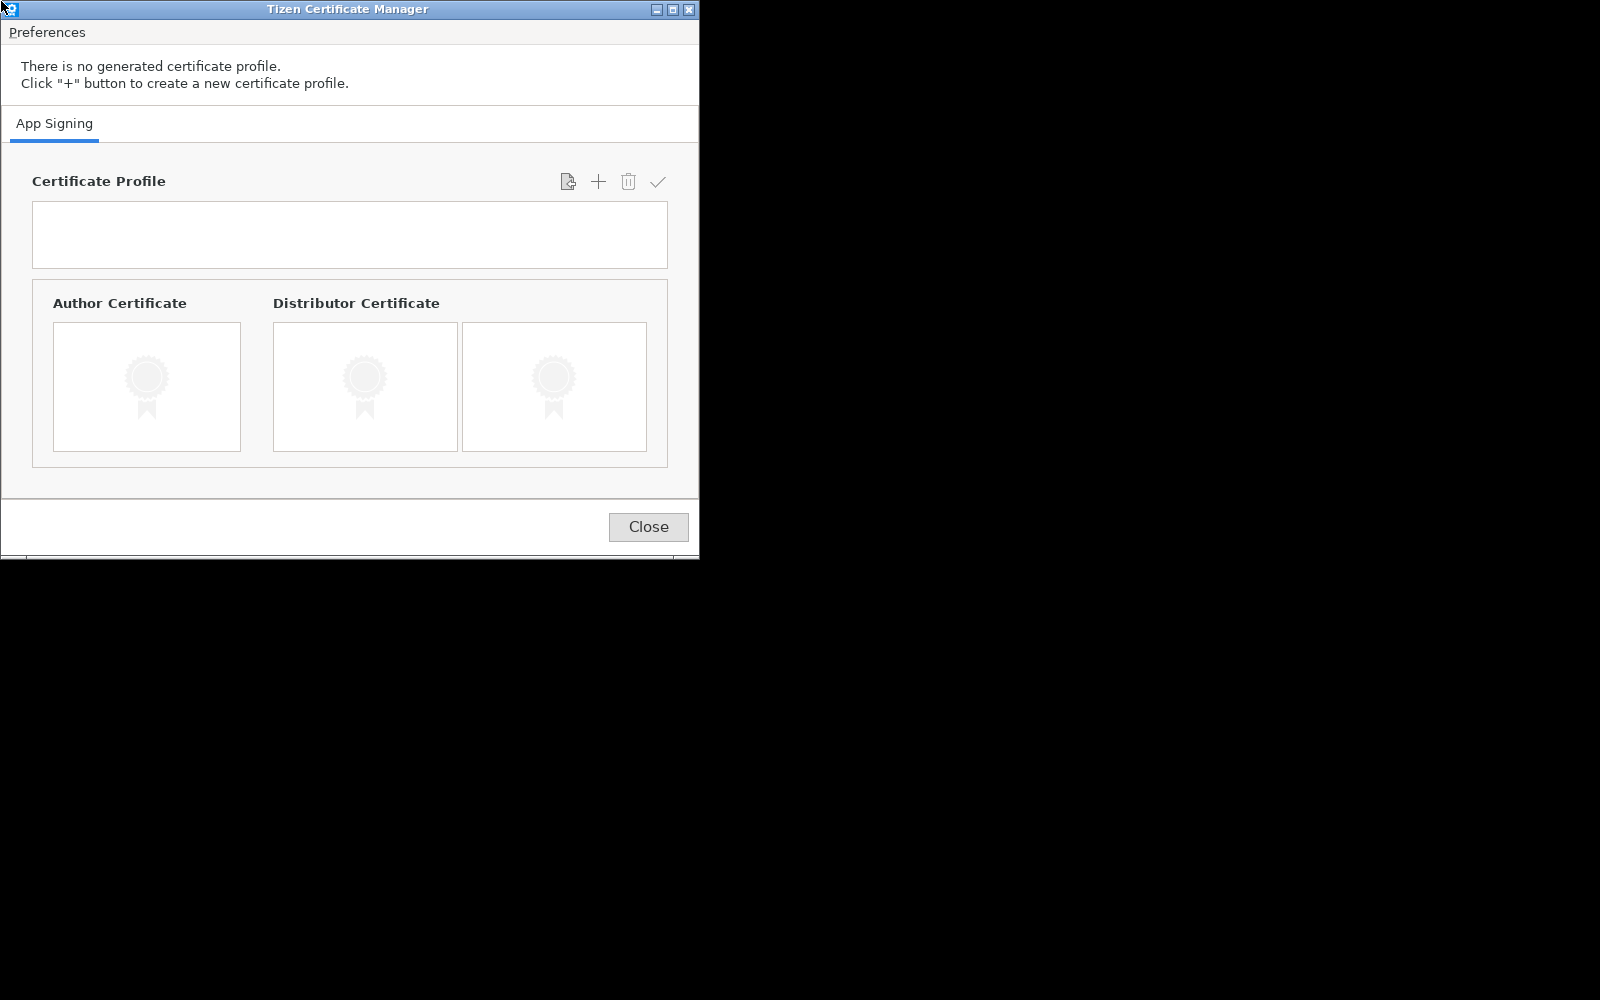
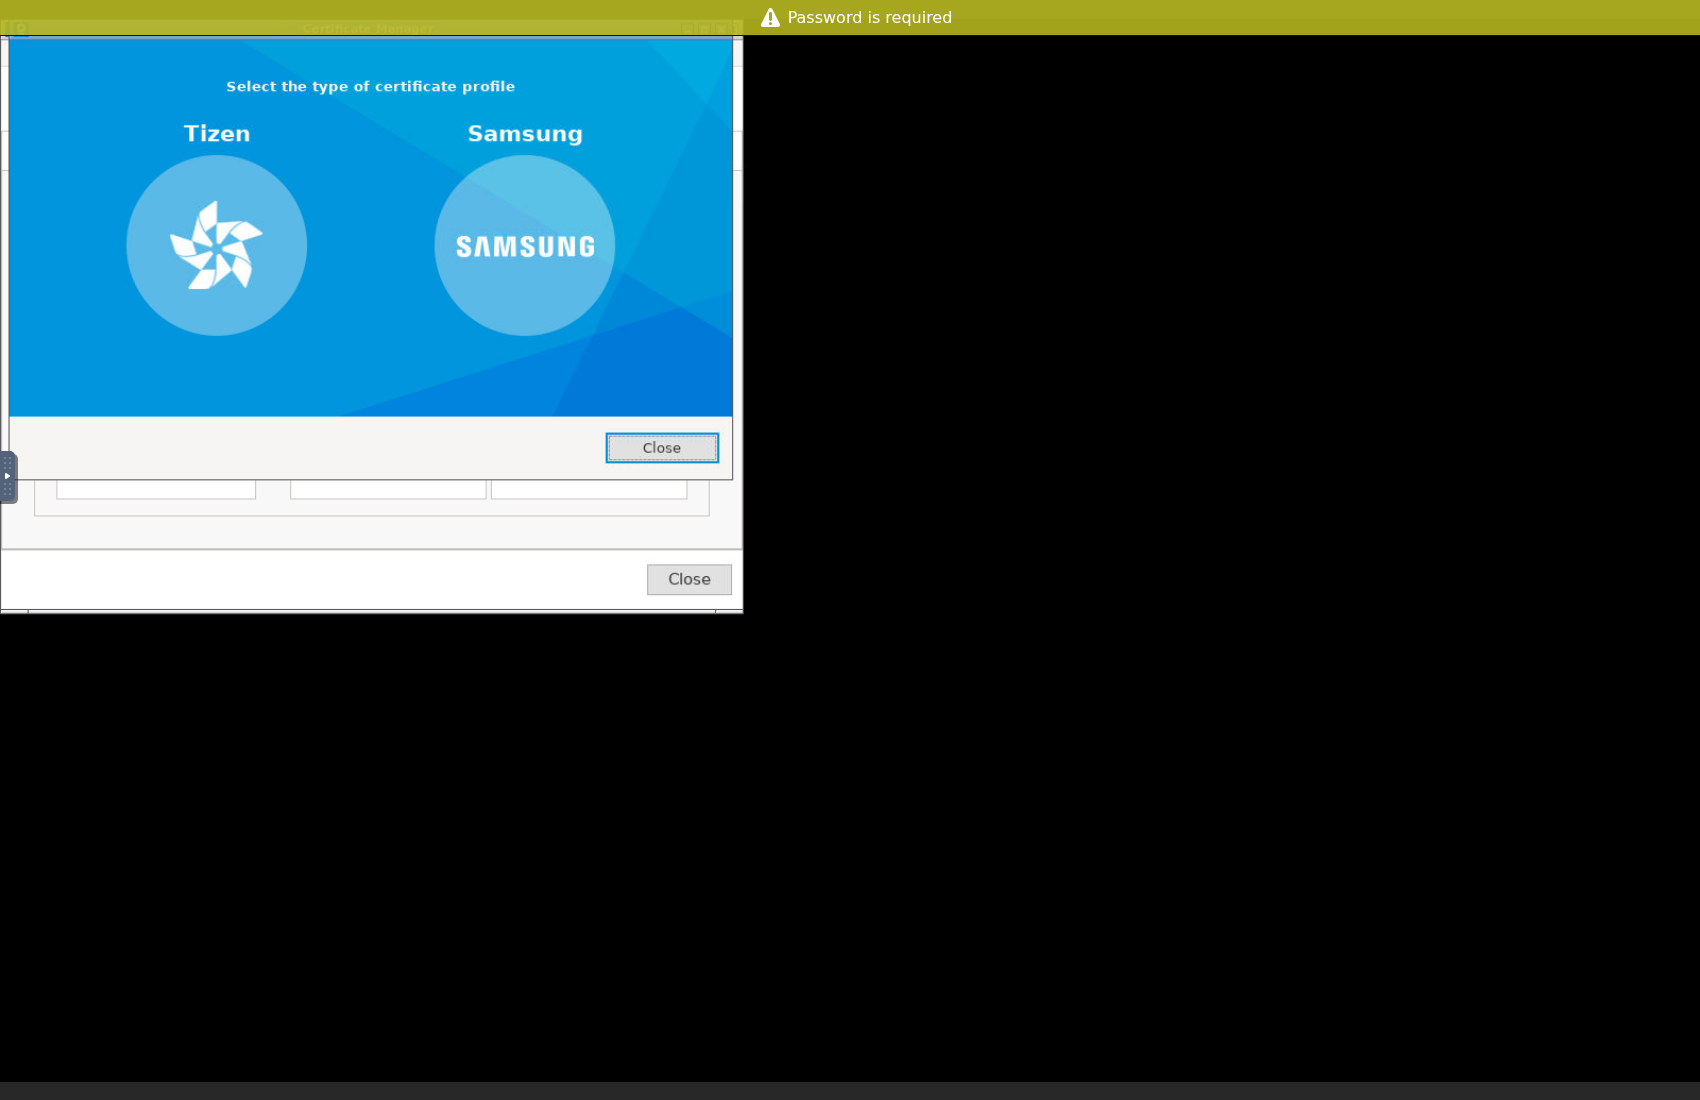
Mode web cert-manager : vérifié dans un navigateur via noVNC (clic sur + jusqu'au choix Samsung), §5 corrigé, note docker inspect

Changed region(s): [[0.0, 0.0, 1.0, 0.465], [0.0, 0.961, 1.0, 1.0], [0.0, 0.496, 0.4375, 0.558]]

diff --git a/docs/m1-procedure.md b/docs/m1-procedure.md
@@ -43,10 +43,10 @@ Consigner dans `docs/tv-status.md` (sans IP ni DUID) : plateforme Tizen, résult
 ### 5. Certificats Samsung (auteur + distributeur)
 Il faut le **DUID** de la TV (sortie de `sdb capability`, champ `duid`), un compte Samsung, et le certificat se crée avec l'outil Samsung. Deux voies. **Pour une TV Samsung, l'auteur et le distributeur doivent venir du même profil Samsung** (voie Certificate Manager) : un auteur Tizen ne va pas avec un distributeur Samsung, et la TV refuserait la signature.
 - **Voie CLI** (auteur Tizen seulement, insuffisante pour la TV) : `scripts/tizen/cert-author.sh` (lance `tizen certificate -a cimaise -f author` avec `AUTHOR_PASSWORD` lu dans `.local/tizen.env` : le mot de passe n'apparaît jamais sur la ligne de commande de l'hôte, dans l'historique du shell ni dans les logs ; dans le conteneur, `tizen` le reçoit via `-p`) génère un certificat **auteur Tizen** copié dans `.local/certs/author.p12`. **Cette voie ne donne qu'un auteur qui ne va pas avec un distributeur Samsung** : elle ne suffit pas pour la TV (la CLI ne sait pas demander le distributeur, qui exige ton compte Samsung). Utiliser la voie Certificate Manager ; si un `author.p12` de la CLI est déjà là, `cert-manager.sh` le sauvegarde en `author.cli.p12` et met l'auteur Samsung à sa place.
-- **Voie Certificate Manager** (`scripts/tizen/cert-manager.sh`) : le Certificate Manager et l'extension Samsung sont déjà dans l'image (reconstruire avec `scripts/tizen/build-image.sh` si l'image date d'avant : elle ajoute GTK3). Le script affiche la fenêtre via X11, ou XWayland sous Wayland (`DISPLAY` doit être défini ; sur NixOS, `programs.xwayland.enable = true`). Pas à pas, **tu fais tout toi-même** (l'agent ne saisit jamais ton mot de passe Samsung) :
+- **Voie Certificate Manager** (`scripts/tizen/cert-manager.sh`) : le Certificate Manager et l'extension Samsung sont déjà dans l'image (reconstruire avec `scripts/tizen/build-image.sh` si l'image date d'avant : elle ajoute GTK3). Le script affiche la fenêtre via X11, ou XWayland sous Wayland (en mode hôte seulement, `DISPLAY` doit être défini ; sur NixOS, `programs.xwayland.enable = true` ; sans `DISPLAY`, le mode web est le défaut). Pas à pas, **tu fais tout toi-même** (l'agent ne saisit jamais ton mot de passe Samsung) :
   - **Où s'affiche la fenêtre** (même pas à pas ensuite) :
     - **Session graphique de l'hôte** (`DISPLAY` défini) : `scripts/tizen/cert-manager.sh`, la fenêtre s'ouvre sur ton écran.
-    - **Mode web** (VM sans écran, pilotée en SSH ; **défaut quand `DISPLAY` est absent**, ou `--web`) : `scripts/tizen/cert-manager.sh [--port 6080]`. Le script lance dans le conteneur Xvfb (1600×1000) + openbox + VNC + noVNC et affiche **une URL par IP de la VM** (LAN, Tailscale), du type `http://<ip-vm>:6080/vnc.html?autoconnect=1&resize=scale`, puis **un mot de passe de 8 caractères, tiré au hasard à chaque lancement et affiché une seule fois** (rien n'est écrit dans git ni dans un log ; à relancer pour en obtenir un autre). **Tu fais** : ouvrir l'URL dans un navigateur du LAN ou de Tailscale (le port, 6080 par défaut, doit être joignable depuis ton poste), saisir le mot de passe. **Tu verras** : un fond noir uni avec la fenêtre « Certificate Manager ». Le navigateur de connexion au compte Samsung s'ouvre dans ce même bureau. Fermer la fenêtre termine tout ; les certificats atterrissent dans `.local/certs/` comme d'habitude.
+    - **Mode web** (VM sans écran, pilotée en SSH ; **défaut quand `DISPLAY` est absent**, ou `--web`) : `scripts/tizen/cert-manager.sh [--port 6080]`. Le script lance dans le conteneur Xvfb (1600×1000) + openbox + VNC + noVNC et affiche **une URL par IP de la VM** (LAN, Tailscale), du type `http://<ip-vm>:6080/vnc.html?autoconnect=1&resize=scale`, puis **un mot de passe de 8 caractères, tiré au hasard à chaque lancement et affiché une seule fois** (rien n'est écrit dans git ni dans un log ; à relancer pour en obtenir un autre). **Tu fais** : ouvrir l'URL dans un navigateur du LAN ou de Tailscale (le port, 6080 par défaut, doit être joignable depuis ton poste), saisir le mot de passe. **Tu verras** : un fond noir uni avec la fenêtre « Certificate Manager ». Le navigateur de connexion au compte Samsung devrait s'ouvrir dans ce même bureau (non testé). Fermer la fenêtre termine tout ; les certificats atterrissent dans `.local/certs/` comme d'habitude.
   1. `scripts/tizen/cert-manager.sh`. **Tu verras** : une fenêtre « Certificate Manager » (onglet App Signing, « There is no generated certificate profile »). Le script reste bloqué jusqu'à la fermeture de la fenêtre.
   2. Cliquer sur **+** (Certificate Profile). **Tu verras** : « Select the type of certificate profile », deux choix, Tizen et **Samsung**. Choisir **Samsung**.
   3. Étape 1 « Device Type » : **TV** → Next.
@@ -55,7 +55,7 @@ Il faut le **DUID** de la TV (sortie de `sdb capability`, champ `duid`), un comp
   6. Étape 4 « Distributor Certificate » (même dossier par défaut) : se connecter au **compte Samsung** (dans la fenêtre de connexion qui s'ouvre, c'est toi qui saisis tes identifiants), choisir privilège **Public**, saisir le **DUID** de la TV (`sdb-tv.sh capability`), mot de passe = `DISTRIBUTOR_PASSWORD` → Finish.
   7. Fermer la fenêtre. Le script prend la paire `author.p12` + `distributor.p12` d'un même profil de `.local/SamsungCertificate/` et la copie en `.local/certs/` ; elle prime sur un `author.p12` existant (sauvegardé en `author.cli.p12` s'il diffère). Il ne prend jamais l'auteur du keystore quand un distributeur Samsung est présent, et signale ce qui manque. Si les fichiers portent un autre nom, les renommer à la main en `author.p12` et `distributor.p12`.
   - Si la connexion Samsung n'affiche pas de page (navigateur intégré absent) ou si la fenêtre ne s'ouvre pas, dis-moi le message exact.
-  - Mode web vérifié par l'agent le 2026-10-29, sur le code du commit fdfa66e, avec `env -u DISPLAY scripts/tizen/cert-manager.sh --port 6081` (Xvfb 1600×1000 + openbox + x11vnc + noVNC dans le conteneur) : l'URL et un mot de passe de 8 caractères s'affichent ; via websockify (chemin noVNC), un mauvais mot de passe est refusé et le bon accepté ; la fenêtre « Tizen Certificate Manager » apparaît (capture : `.board/captures/certificate-manager-novnc.png`) ; aucun `workspace/` n'est créé dans le dépôt. Vérifié avec un client RFB scripté, **pas dans un navigateur** (celui de l'agent n'atteignait pas la VM), et **pas encore vu par Stéphane**. **Non testé** : clics dans la fenêtre via noVNC, choix Samsung / étape « Device Type », connexion Samsung, création des certificats, affichage sur ton écran Wayland réel.
+  - Mode web vérifié par l'agent le 2026-10-29 avec `env -u DISPLAY scripts/tizen/cert-manager.sh --port 6082` (Xvfb 1600×1000 + openbox + x11vnc + noVNC dans le conteneur) : l'URL et un mot de passe de 8 caractères s'affichent ; **dans un Chromium headless lancé sur la VM** (Playwright), la page `vnc.html?autoconnect=1&resize=scale` demande le mot de passe, le champ + « Send Password » ouvrent la session, la fenêtre « Certificate Manager » s'affiche, et un clic sur **+** ouvre « Select the type of certificate profile » (Tizen / Samsung), sans aller plus loin (capture du navigateur : `.board/captures/certificate-manager-novnc.png`). Détail observé : avec `autoconnect=1`, noVNC affiche un bandeau « Password is required » qui reste affiché une fois connecté. Aucun `workspace/` n'est créé dans le dépôt. **Pas encore vu par Stéphane** dans son propre navigateur. **Non testé** : choix Samsung et suite de l'assistant, connexion Samsung (jamais faite par l'agent), création des certificats, affichage sur ton écran Wayland réel.
 Dans `.local/tizen.env` : renseigner `AUTHOR_PASSWORD`, `DISTRIBUTOR_PASSWORD`. **Garder l'auteur Samsung pour toujours** : le changer casse les mises à jour sur place.
 
 > Cette étape n'est pas testée : la création du certificat distributeur dépend de ton compte Samsung. Si tu bloques, dis-moi où.

diff --git a/.board/bilan.md b/.board/bilan.md
@@ -1,12 +1,11 @@
-# Bilan — Certificate Manager en mode web
+# Bilan — Certificate Manager dans un navigateur (mode web)
 
-## Fait
-- Relancé pour de vrai, sur le code de fdfa66e : `env -u DISPLAY scripts/tizen/cert-manager.sh --port 6081` (conteneur cimaise-tizen:5.6). URL + mot de passe affichés, fenêtre « Tizen Certificate Manager » visible sur Xvfb 1600×1000.
-- Authentification vérifiée via websockify (chemin noVNC) avec un client RFB scripté : mauvais mot de passe refusé (SecurityResult=1), bon mot de passe accepté.
-- Capture `.board/captures/certificate-manager-novnc.png` refaite depuis cette session VNC (1600×1000).
-- Aucun `workspace/` dans le dépôt après coup ; conteneur arrêté (le mien uniquement).
-- `docs/m1-procedure.md` §5 : ne dit plus « observé par Stéphane », liste ce qui a été vérifié, quand, comment, et ce qui ne l'est pas ; « bureau gris » corrigé en « fond noir ».
+**Fait**
+- `cert-manager.sh` : mode web (Xvfb 1600×1000, openbox, x11vnc, noVNC), défaut sans `DISPLAY`, URL + mot de passe aléatoire affichés une fois (commits af5cad3, fdfa66e).
+- Vérification réelle dans un Chromium headless sur la VM : mot de passe saisi dans la page noVNC, fenêtre Certificate Manager visible, clic sur « + » jusqu'au choix Tizen / Samsung. Capture du navigateur : `.board/captures/certificate-manager-novnc.png`.
+- `docs/m1-procedure.md` §5 corrigé (DISPLAY limité au mode hôte, navigateur Samsung « non testé », résultat du run navigateur) ; `docs/decisions.md` : mot de passe VNC visible via `docker inspect` pendant l'exécution, accepté sur la VM.
 
-## Non fait / pourquoi
-- Pas ouvert dans un vrai navigateur : le Chrome de l'agent n'atteint pas la VM (page d'erreur sur localhost et sur l'IP LAN). Le client scripté suit le même chemin websocket + RFB, mais le rendu noVNC lui-même n'est pas vérifié.
-- Clics dans la fenêtre, connexion Samsung et création de certificats non testés (compte Samsung : jamais touché).
+**Pas fait**
+- Choix Samsung et suite, connexion au compte Samsung, création des certificats : volontairement non faits (compte de Stéphane). Les certificats vers `.local/certs/` restent non vérifiés de bout en bout.
+- Pas vu par Stéphane dans son propre navigateur.
+- Détail noté : le bandeau « Password is required » reste affiché avec `autoconnect=1`.

diff --git a/docs/decisions.md b/docs/decisions.md
@@ -165,3 +165,5 @@ Mot de passe de 8 caractères tiré au hasard à chaque lancement, affiché une 
 (jamais en argument : x11vnc le lit dans un fichier 0600 temporaire du conteneur, via `-passwdfile` ; jamais dans un fichier du dépôt ni un log). Coût : 4 paquets apt (xvfb, openbox, x11vnc, novnc + websockify) dans
 l'image des outils, sans effet sur l'app TV.
 
+
+Le mot de passe VNC transite par l'environnement du conteneur (`-e CIMAISE_VNC_PW`) : il est donc lisible par `docker inspect` tant que le conteneur tourne. Acceptable sur la VM (usage personnel, mot de passe à usage unique renouvelé à chaque lancement, jamais écrit dans git ni un log).
